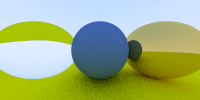
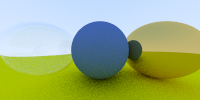
Chapter 9: bubble effect

diff --git a/src/material.rs b/src/material.rs
@@ -1,4 +1,5 @@
 use crate::ray::Ray;
+use rand::Rng;
 use vec3::Real;
 use vec3::Vec3;
 
@@ -71,6 +72,12 @@ fn refract(v: Vec3, n: Vec3, ni_over_nt: Real) -> Option<Vec3> {
     }
 }
 
+fn schlick(cosine: Real, ref_idx: Real) -> Real {
+    let mut r0 = (1.-ref_idx) / (1.+ref_idx);
+    r0 *= r0;
+    r0 + (1.-r0)*(1.-cosine).powi(5)
+}
+
 pub struct Dielectric{
     pub ref_idx: Real,
 }
@@ -79,18 +86,24 @@ impl Material for Dielectric {
     fn scatter(&self, r_in: Ray, point: Vec3, normal: Vec3) -> Option<(Vec3, Ray)> {
         let reflected = reflect(r_in.direction(), normal);
         let attenuation = Vec3::new(1., 1., 1.);
-        let (outward_normal, ni_over_nt) = if r_in.direction().dot(normal) > 0. {
-            (-normal, self.ref_idx)
+        let cosine = self.ref_idx * r_in.direction().dot(normal) / r_in.direction().length();
+        let (outward_normal, ni_over_nt, cosine) = if r_in.direction().dot(normal) > 0. {
+            (-normal, self.ref_idx, cosine)
         } else {
-            (normal, 1./self.ref_idx)
+            (normal, 1./self.ref_idx, -cosine)
         };
-        if let Some(refracted) = refract(r_in.direction(), outward_normal, ni_over_nt) {
-            let scattered = Ray::new(point, refracted);
-            Some((attenuation, scattered))
+        let scattered = if let Some(refracted) = refract(r_in.direction(), outward_normal, ni_over_nt) {
+            let reflect_prob = schlick(cosine, self.ref_idx);
+            if rand::thread_rng().gen_range(0., 1.) < reflect_prob {
+                Ray::new(point, reflected)
+            }
+            else {
+                Ray::new(point, refracted)
+            }
         }
         else {
-            // Ray::new(point, reflected)
-            None
-        }
+            Ray::new(point, reflected)
+        };
+        Some((attenuation, scattered))
     }
 }

diff --git a/src/main.rs b/src/main.rs
@@ -43,6 +43,11 @@ fn main() {
             0.5,
             Box::new(Dielectric { ref_idx: 1.5 }),
         ),
+        Sphere::boxed(
+            Vec3::new(-1., 0., -1.),
+            -0.45,
+            Box::new(Dielectric { ref_idx: 1.5 }),
+        ),
     ];
     let cam = Camera::new();
     let mut rng = rand::thread_rng();
